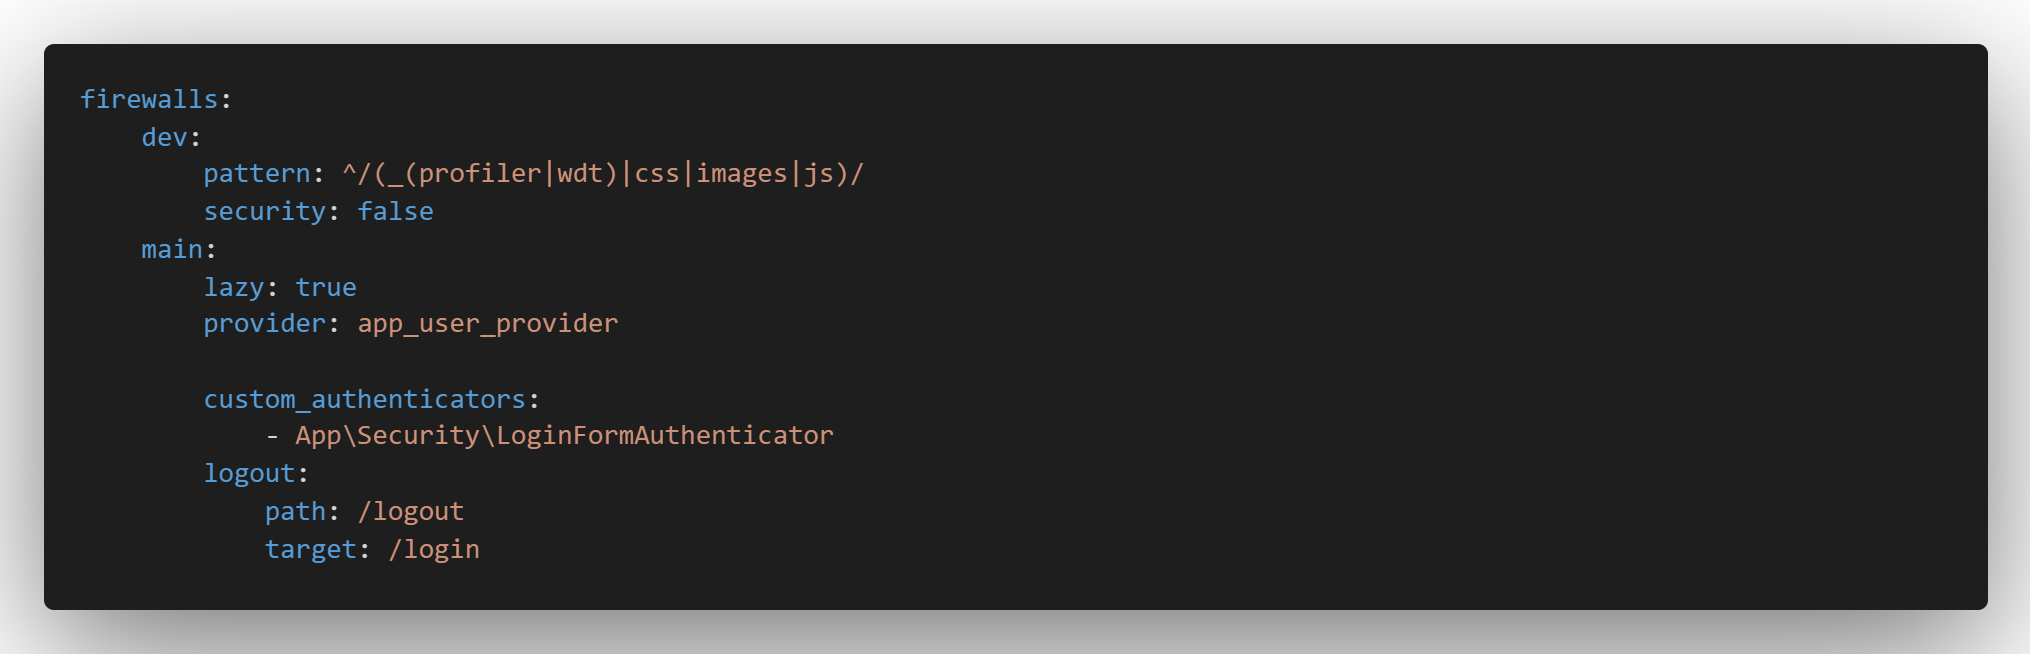
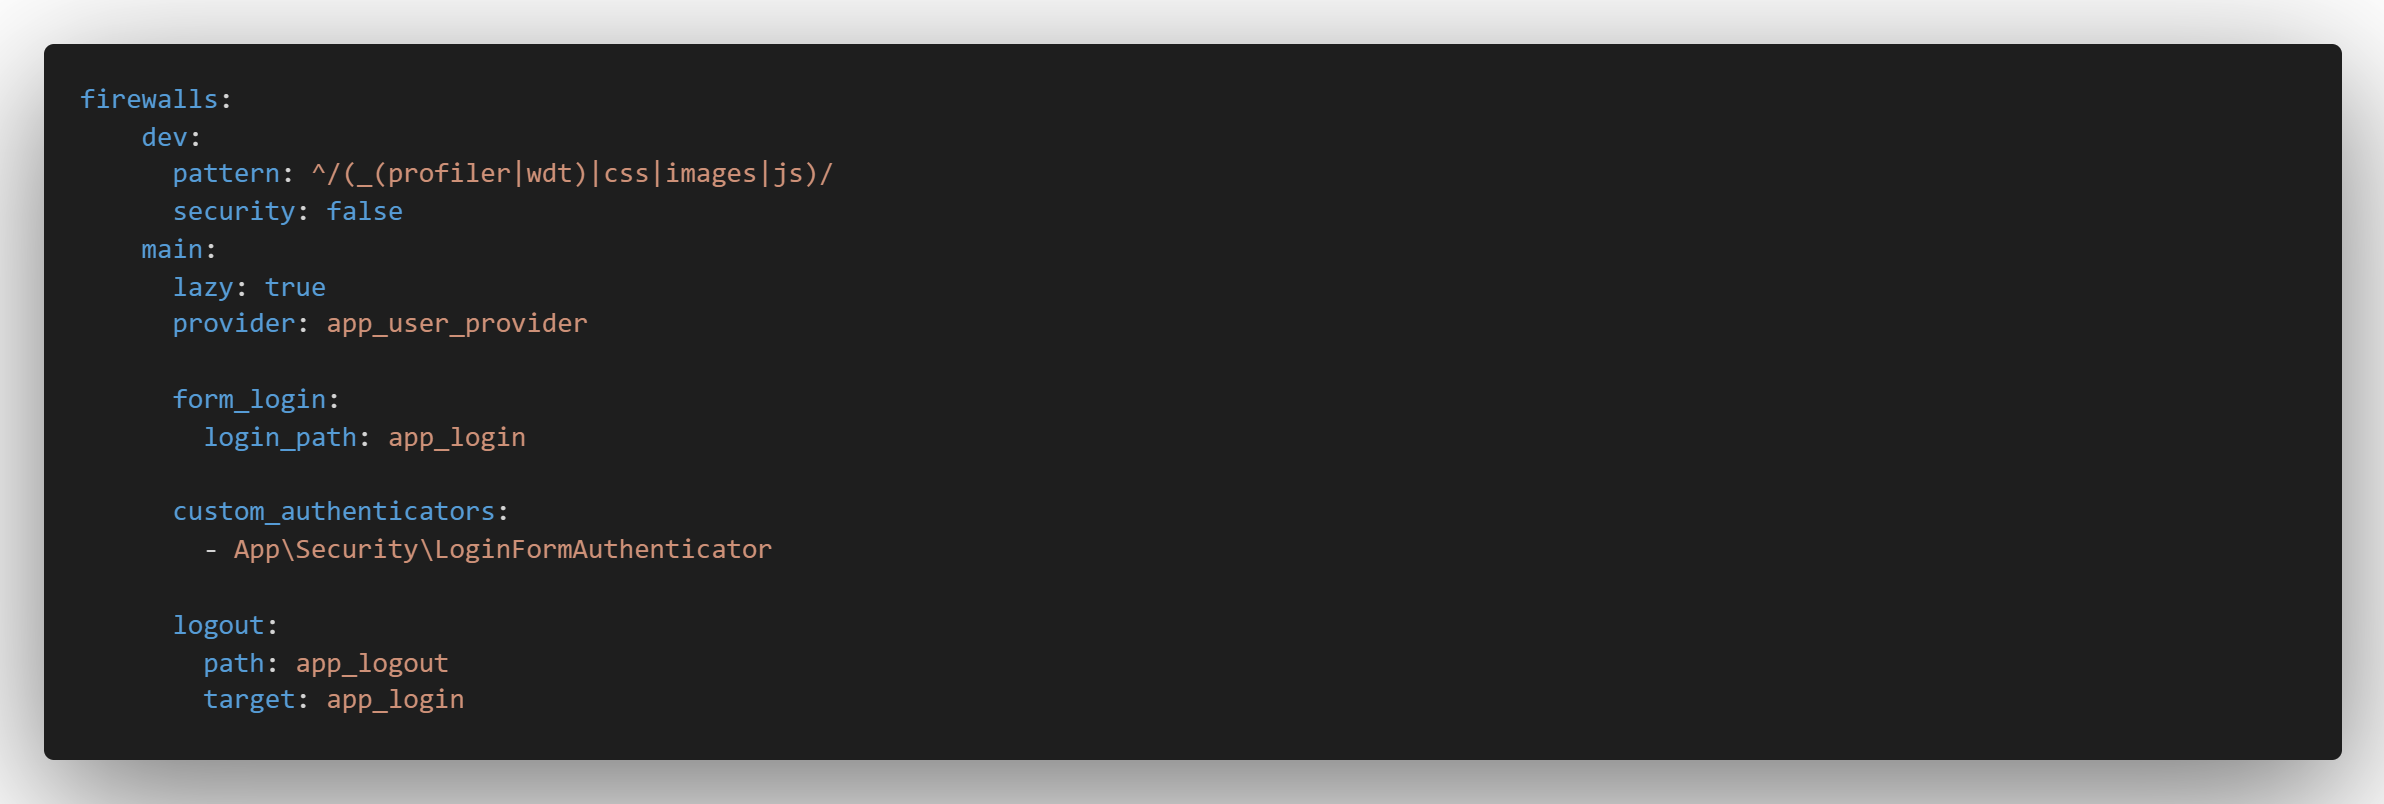
doc:update authentication documentation after adding the redirection to the form_login

diff --git a/documentation/authentication/documentation.md b/documentation/authentication/documentation.md
@@ -102,7 +102,7 @@ Maintenant jettons un oeil au ficher `security.yaml` présent dans notre applica
 - **firewalls**
   ![firewalls](/documentation/authentication/images/firewalls.png)
 
-      On a vu que notre autorisation est représentée par notre firewalls, celui-ci se compose en deux parties:
+  On a vu que notre autorisation est représentée par notre firewalls, celui-ci se compose en deux parties:
 
   - **dev** : La partie dev contient un patern avec une expression régulière représentant l’accès à diverses routes. La sécurité est désactivée pour ces routes en environnement de dev grâce au `security : false`. Cela permet d’avoir accès à la « debug bar » et aussi de pouvoir accéder à nos assets, comme nos fichiers statiques (css, images, js …).
 
@@ -110,6 +110,7 @@ Maintenant jettons un oeil au ficher `security.yaml` présent dans notre applica
 
     - `lazy` : true permet de ne pas démarrer de session pour les utilisateurs anonyme (ex : quelqu’un qui essaye de s’identifier). Cela permet d’avoir des gains de performance.
     - `provider` : un firewall a besoin de savoir où trouver ses utilisateurs, cela se fait par le biais de ce paramètre, on indique donc le nom du provider que l’on a défini précédemment.
+    - `form_login` : Permet d'indiquer le chemin du formulaire de connexion. Si un utilisateur essaye d'accéder à une page nécessitant d'être authentifié sans l'être, il sera alors redigireé vers le formulaire dont la route est indiqué dans login_path (app_login).
     - `custom_authenticator` : On indique le chemin de notre authenticator. C’est la class qui va s’occuper de tout le processus d’authentification.
     - `logout` : le firewall peut gérer la déconnexion automatiquement pour vous, lorsque vous activez ce paramètre de configuration. Il vous suffit de préciser le chemin (path) et ensuite la redirection (target).
 
